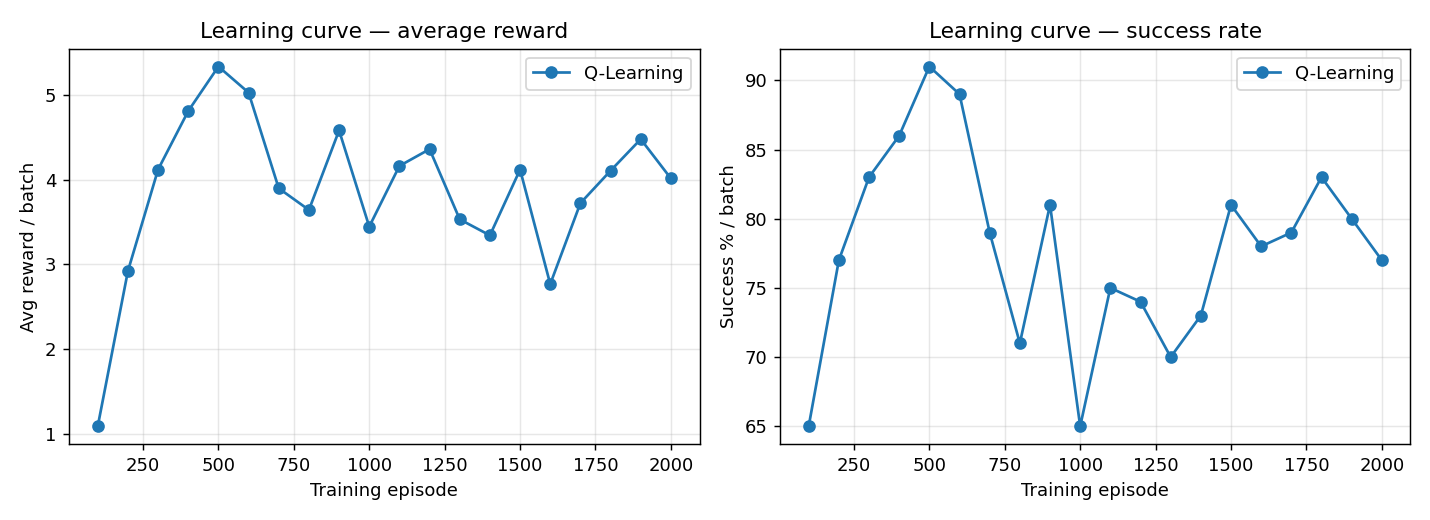
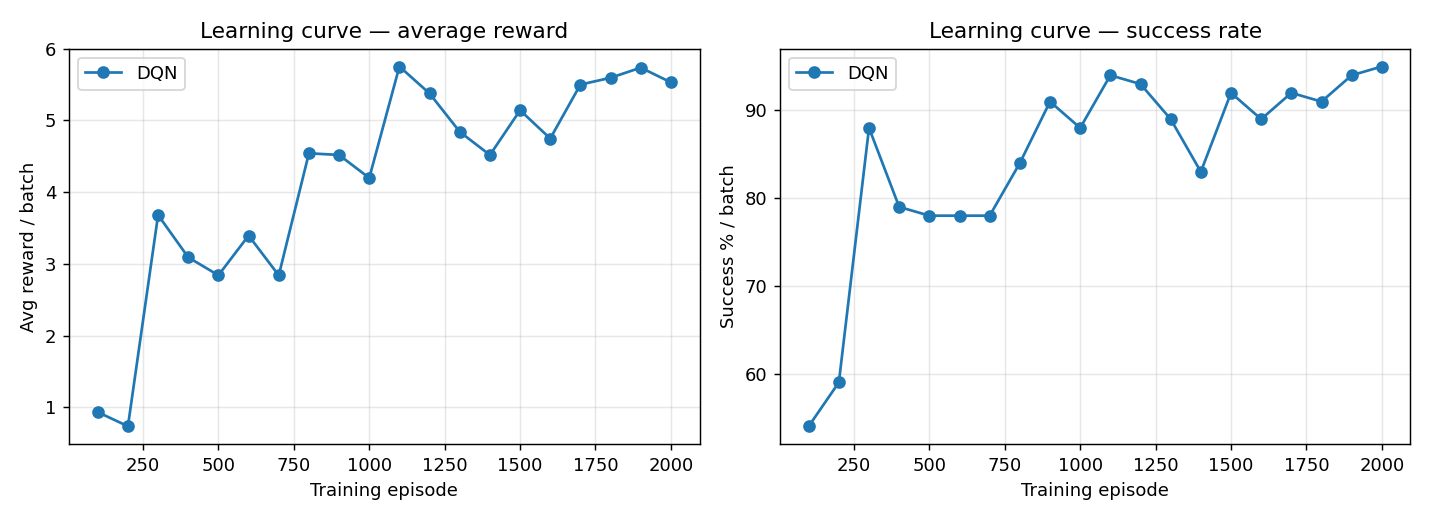
results: add DQN benchmark and learning curve

diff --git a/cloud_negotiation_agent/results/benchmark.md b/cloud_negotiation_agent/results/benchmark.md
@@ -1,15 +1,15 @@
 | Algorithm | Success % | Feasible Ceiling % | Feasible Success % | Avg reward | Avg rounds | Avg savings % | Tier kept % | Train time (s) |
 |---|---|---|---|---|---|---|---|---|
-| Q-Learning | 91.5% | 98.0% | 93.4% | +4.85 | 2.04 | 13.6% | 64.8% | 0.7s |
+| DQN | 98.0% | 98.0% | 100.0% | +5.82 | 2.43 | 17.4% | 80.1% | 11.0s |
 
 Success rate by provider:
 
 | Algorithm | AWS | GCP | Azure |
 |---|---|---|---|
-| Q-Learning | 97.0% | 89.5% | 87.9% |
+| DQN | 97.7% | 98.4% | 97.9% |
 
 Auto provider selection (best of AWS / GCP / Azure):
 
 | Algorithm | Success % (auto) | Success % (single provider) | Tier kept % | AWS wins | GCP wins | Azure wins |
 |---|---|---|---|---|---|---|
-| Q-Learning | 97.7% | 91.5% | 82.2% | 40 | 676 | 162 |
+| DQN | 99.4% | 98.0% | 95.6% | 0 | 531 | 363 |
